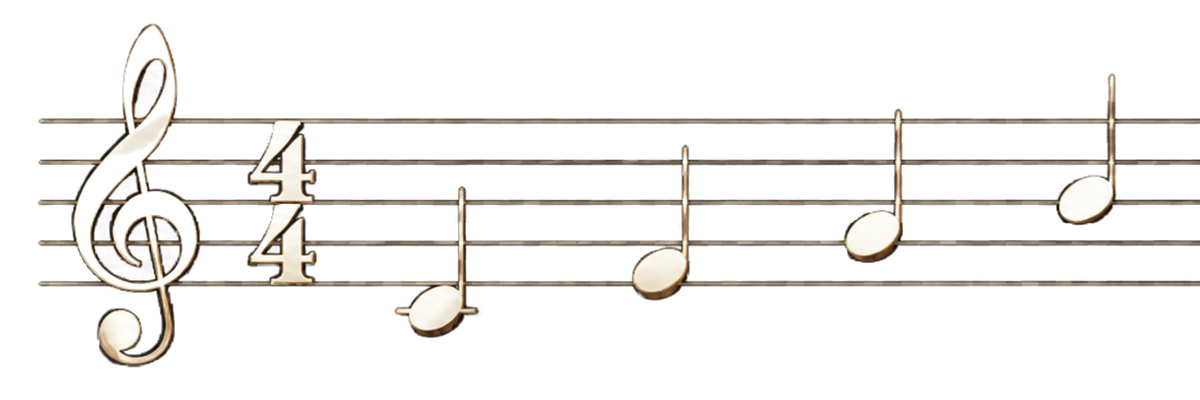
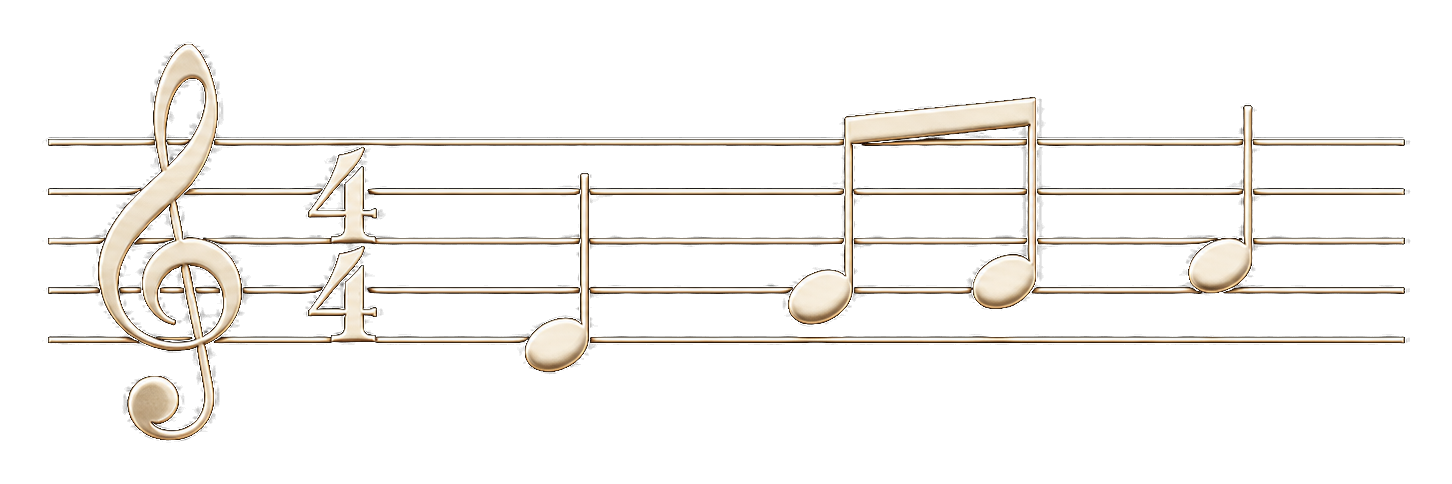
Use updated landing score artwork

Changed region(s): [[0.0308, 0.06, 1.0, 0.93]]

diff --git a/ui/melody-score.js b/ui/melody-score.js
@@ -558,10 +558,10 @@
       container.replaceChildren();
       const image = global.document.createElement("img");
       image.classList.add("home-melody-score-image");
-      image.src = "assets/landing/melody-score.png?v=focused-four-note-crop-20260714-1";
+      image.src = "assets/landing/melody-score.png?v=updated-score-artwork-20260714-1";
       image.alt = "";
-      image.width = 1200;
-      image.height = 400;
+      image.width = 1452;
+      image.height = 484;
       image.decoding = "async";
       image.draggable = false;
       image.dataset.previewKind = "approved-melody-score-png";

diff --git a/ui/steel-guitar-rag-mock.html b/ui/steel-guitar-rag-mock.html
@@ -4117,7 +4117,7 @@
   <script src="pedal-steel-fretboard-styles.js?v=module-boundaries-20260713"></script>
   <script src="pedal-steel-fretboard.js?v=landing-bubble-labels-20260713"></script>
   <script src="vendor/vexflow-5.0.0.js?v=5.0.0"></script>
-  <script src="melody-score.js?v=landing-melody-png-crop-20260714-1"></script>
+  <script src="melody-score.js?v=updated-score-artwork-20260714-1"></script>
   <script src="landing-home.js?v=landing-bubble-labels-20260713"></script>
   <script>
     const question = document.querySelector("#question");

diff --git a/tests/test_landing_home_ui.py b/tests/test_landing_home_ui.py
@@ -100,10 +100,10 @@ def test_landing_workspace_cards_include_compact_tool_previews() -> None:
         "const api =", 1
     )[0]
     assert "home-melody-score-image" in preview_renderer
-    assert 'image.src = "assets/landing/melody-score.png?v=focused-four-note-crop-20260714-1"' in preview_renderer
+    assert 'image.src = "assets/landing/melody-score.png?v=updated-score-artwork-20260714-1"' in preview_renderer
     assert 'image.alt = ""' in preview_renderer
-    assert "image.width = 1200" in preview_renderer
-    assert "image.height = 400" in preview_renderer
+    assert "image.width = 1452" in preview_renderer
+    assert "image.height = 484" in preview_renderer
     assert 'image.dataset.previewKind = "approved-melody-score-png"' in preview_renderer
     assert 'container.dataset.scoreRenderer = "static-png-preview"' in preview_renderer
     assert "VexFlow" not in preview_renderer
@@ -118,7 +118,7 @@ def test_landing_workspace_cards_include_compact_tool_previews() -> None:
     assert "overflow: hidden;" in css
     assert "mountMelodyPreview" in SCRIPT_PATH.read_text(encoding="utf-8")
     assert 'src="vendor/vexflow-5.0.0.js?v=5.0.0"' in HTML_PATH.read_text(encoding="utf-8")
-    assert 'src="melody-score.js?v=landing-melody-png-crop-20260714-1"' in HTML_PATH.read_text(encoding="utf-8")
+    assert 'src="melody-score.js?v=updated-score-artwork-20260714-1"' in HTML_PATH.read_text(encoding="utf-8")
     assert ".home-fretboard-mini" in css
     assert "grid-template-columns: repeat(12, minmax(0, 1fr));" in css
     assert ".mini-string-line" in css
@@ -295,7 +295,7 @@ assert.deepEqual(classes, ["is-unavailable"]);
 def test_landing_score_preview_uses_approved_transparent_png() -> None:
     asset_path = Path("ui/assets/landing/melody-score.png")
     with Image.open(asset_path) as asset:
-        assert asset.size == (1200, 400)
+        assert asset.size == (1452, 484)
         assert asset.mode == "RGBA"
         assert asset.getchannel("A").getextrema() == (0, 255)
         content_bounds = asset.getchannel("A").getbbox()
@@ -325,10 +325,10 @@ const container = {
 assert.equal(score.renderPreview(container), true);
 assert.deepEqual(container.children, [image]);
 assert.deepEqual(image.classList.values, ["home-melody-score-image"]);
-assert.equal(image.src, "assets/landing/melody-score.png?v=focused-four-note-crop-20260714-1");
+assert.equal(image.src, "assets/landing/melody-score.png?v=updated-score-artwork-20260714-1");
 assert.equal(image.alt, "");
-assert.equal(image.width, 1200);
-assert.equal(image.height, 400);
+assert.equal(image.width, 1452);
+assert.equal(image.height, 484);
 assert.equal(image.decoding, "async");
 assert.equal(image.draggable, false);
 assert.equal(image.dataset.previewKind, "approved-melody-score-png");

diff --git a/tests/test_same_origin_smoke_server.py b/tests/test_same_origin_smoke_server.py
@@ -70,7 +70,7 @@ def test_same_origin_server_serves_ui_and_answer_client() -> None:
     assert b'<script src="pedal-steel-fretboard-styles.js?v=module-boundaries-20260713"></script>' in html
     assert b'<script src="pedal-steel-fretboard.js?v=landing-bubble-labels-20260713"></script>' in html
     assert b'<script src="vendor/vexflow-5.0.0.js?v=5.0.0"></script>' in html
-    assert b'<script src="melody-score.js?v=landing-melody-png-crop-20260714-1"></script>' in html
+    assert b'<script src="melody-score.js?v=updated-score-artwork-20260714-1"></script>' in html
     assert b'<script src="landing-home.js?v=landing-bubble-labels-20260713"></script>' in html
     assert b'<link rel="stylesheet" href="workspace-shell.css?v=landing-melody-png-20260714-1">' in html
 

diff --git a/docs/handoffs/task-completions/2026-07-14-1455-06-updated-landing-score-artwork.md b/docs/handoffs/task-completions/2026-07-14-1455-06-updated-landing-score-artwork.md
@@ -1,0 +1,95 @@
+# Updated Landing Score Artwork
+
+## Task summary
+
+- Replaced the Melody Studio landing-card score with the user-supplied four-note artwork.
+- Removed the source image's baked black surround and produced a tightly framed transparent 3:1 PNG so the treble clef, 4/4 signature, staff, and all four notes remain large and legible.
+- Preserved the existing card layout, accessible container label, static-image renderer contract, full Melody Studio renderer, fretboard preview, backend, dependencies, and brand assets.
+
+## Files changed
+
+- `ui/assets/landing/melody-score.png`
+- `ui/melody-score.js`
+- `ui/steel-guitar-rag-mock.html` — one cache-key hunk only
+- `tests/test_landing_home_ui.py`
+- `tests/test_same_origin_smoke_server.py` — one cache-key assertion hunk only
+- `docs/handoffs/task-completions/2026-07-14-1455-06-updated-landing-score-artwork.md`
+
+No files were deleted. The source file in `~/Downloads` was read but not modified or staged.
+
+## Tests and checks
+
+- `node --check ui/melody-score.js` — pass
+- `node --check ui/landing-home.js` — pass
+- `node --check ui/answer-client.js` — pass
+- `node --check ui/pedal-steel-fretboard.js` — pass
+- `.venv/bin/python -m pytest -q tests/test_landing_home_ui.py tests/test_same_origin_smoke_server.py tests/test_frontend_answer_ui.py` — 55 passed
+- `.venv/bin/python -m pytest -q` — 1110 passed
+- `git diff --check` — pass
+- Local browser smoke at desktop and narrow widths — pass
+
+## Smoke Target
+
+- Target type: local
+- Result type: browser smoke
+- Exact browser URL tested: `http://127.0.0.1:8920/ui/steel-guitar-rag-mock.html?v=updated-score-artwork-local-20260714`
+- Cache-busted URL tested: `http://127.0.0.1:8920/ui/steel-guitar-rag-mock.html?v=updated-score-artwork-local-20260714`
+- Exact URL the user should use: protected-preview URL to be recorded after commit and restart
+- Auth required: no
+- Auth provider: none
+- Cloudflare Access login result: not required
+- Local backend URL: `http://127.0.0.1:8920`
+- Expected backend port: 8920
+- Expected git HEAD: uncommitted working tree based on `e1d4d7a6f387060507b259d68a33a9ca8767f75a`
+- Version endpoint: not available on the static local server
+- Version endpoint result: not available
+- If version endpoint missing, how version is inferred: cache-busted asset URL and inspected working-tree files
+- Whether app root `/` works: yes, as a static directory listing; not used for smoke
+- Whether app root `/` is expected to work: no, not as the canonical app route
+- Whether `/ui/steel-guitar-rag-mock.html` works: yes
+- Whether `/ui/steel-guitar-rag-mock.html` is expected to work: yes
+- Who should test this URL: Codex
+- Do not test these URLs: stale protected-preview cache keys from earlier score iterations
+- Known caveats: local static smoke does not prove protected-preview authentication or runtime version
+
+Browser assertions: one 1452×484 PNG rendered at 210×70; exact 3:1 proportion; no SVG or Canvas descendant; no card/page horizontal overflow; no console warning or error. Visual checks confirmed a clear large treble clef and 4/4 signature, four complete notes, attached stems/beam, no clipping, and no black rectangle.
+
+## Integration notes
+
+- The landing preview continues to return `true` from `STEEL_RAG_MELODY_SCORE.renderPreview(container)` and reports `data-score-renderer="static-png-preview"`.
+- The asset query and script query changed to `updated-score-artwork-20260714-1`.
+- No API, schema, auth, corpus, retrieval, or full-workspace rendering contract changed.
+
+## Risk assessment
+
+- Low. The change is isolated to one static landing asset, intrinsic image metadata, cache keys, and focused tests.
+- Rollback is the scoped implementation commit.
+
+## Human decision needed
+
+- No.
+
+## Safe-to-stage exact file list
+
+- `ui/assets/landing/melody-score.png`
+- `ui/melody-score.js`
+- Exact Melody score cache-key hunk in `ui/steel-guitar-rag-mock.html`
+- `tests/test_landing_home_ui.py`
+- Exact Melody score cache assertion hunk in `tests/test_same_origin_smoke_server.py`
+- `docs/handoffs/task-completions/2026-07-14-1455-06-updated-landing-score-artwork.md`
+
+## Files that must not be staged
+
+- Every other dirty or untracked file, including `docs/handoffs/task-completions/integration-status.md`, `ui/assets/music_staff.png`, protected paths, corpus/source files, brand assets, and unrelated Backstage work.
+
+## Recommended next lane
+
+- Lane 01 exact-hunk commit, followed by Lane 12 protected-preview restart and authenticated browser smoke.
+
+## Commit readiness
+
+Safe to commit
+
+## Suggested next step
+
+Proceed under Repo Steward auto-approval: stage only the exact files/hunks above, commit the updated score artwork, restart the protected preview from that exact commit, and record the authenticated cache-busted URL.
